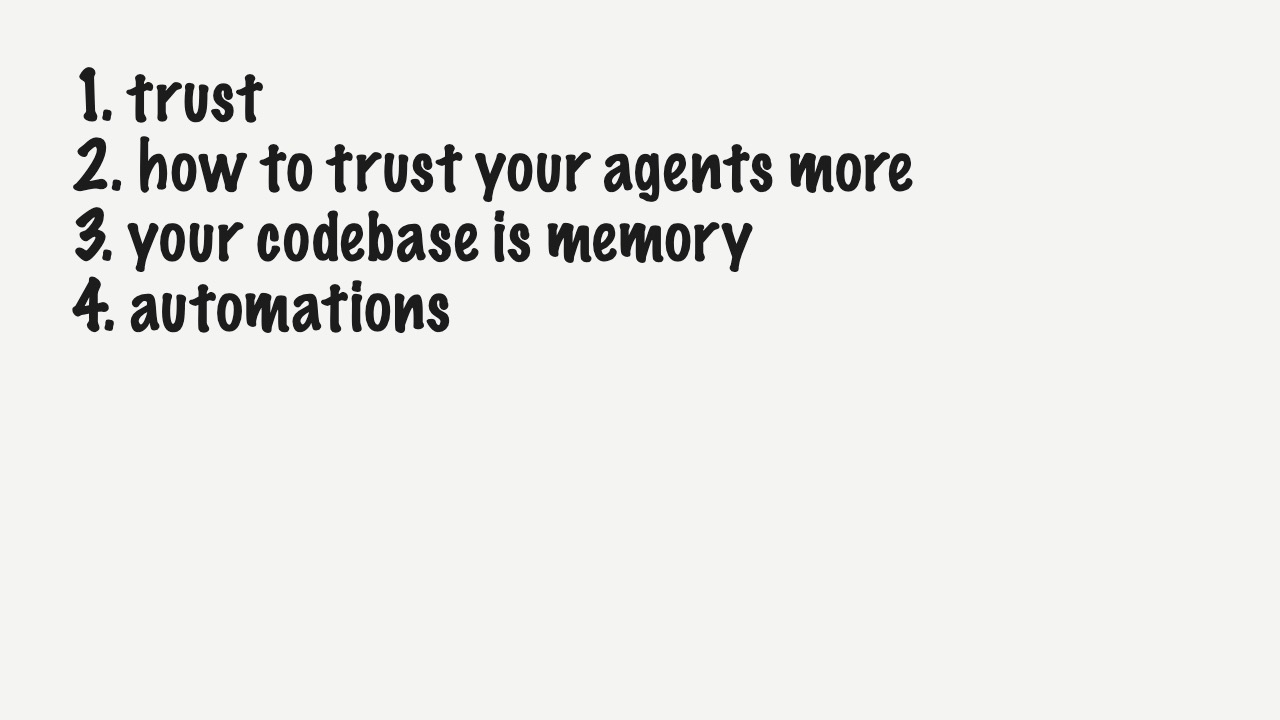
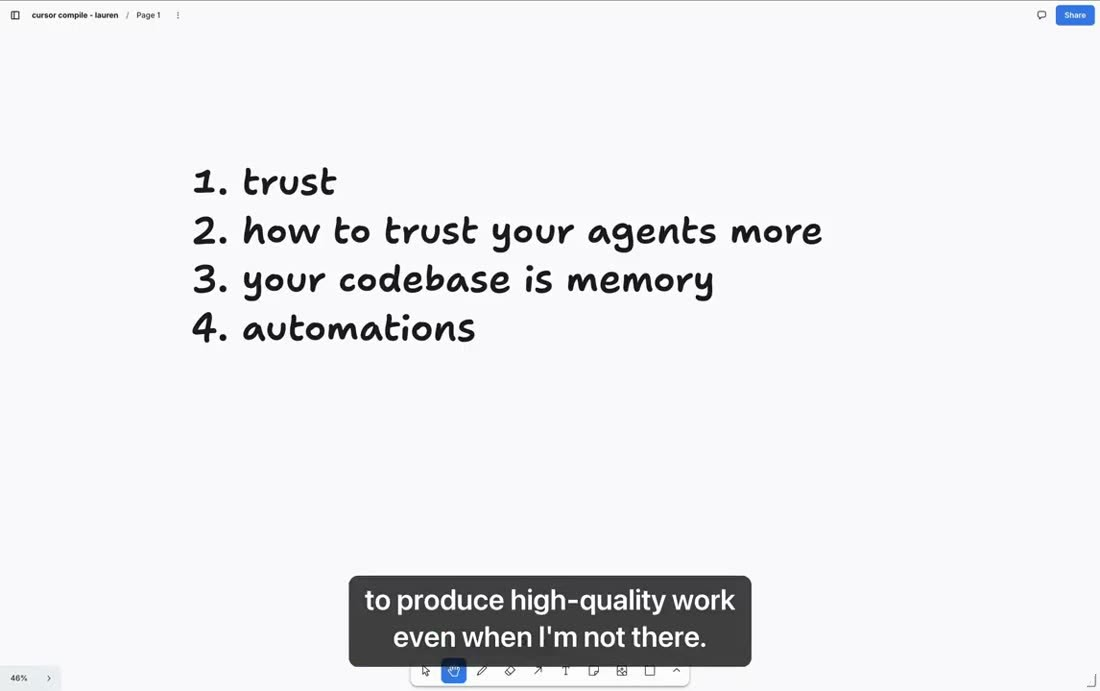
Poteto Paved Path: a short explainer and how-to, with the original slides and the webcam cropped out.

diff --git a/wiki/Systems/Agentic Workflows/Poteto Paved Path.md b/wiki/Systems/Agentic Workflows/Poteto Paved Path.md
@@ -4,7 +4,7 @@ type: concept
 status: developing
 created: 2026-09-22
 updated: 2026-09-22
-description: "Trust is how many agents you can leave alone. A harder prompt does not raise it. The codebase is the memory the next agent copies."
+description: "Trust is how many agents you can leave alone. The codebase is the memory, and a longer prompt does not raise that trust."
 method: plain-rewrite-2026-09-22
 prose-model: grok
 written-by: grok
@@ -17,53 +17,29 @@ tags:
 
 # Poteto Paved Path
 
-Trust is how many agents you can leave alone. A harder prompt does not raise it, because the next agent opens the files and extends the pattern already there. The codebase is the memory.
+Trust is how many agents you can leave alone. The next agent copies the pattern already in the files, so the codebase is the memory, and a longer prompt does not raise that trust.
 
-## How do you trust an agent more?
+You build the trust in three steps. Verification comes first: a feature map of what the app can do and how a person reaches it, plus a command that runs the app and saves proof. Until that exists, you are the check. A skill such as pstack comes next. It lives in the repo, and the agent can still skip it. Architecture is the step that lasts. Agents take the shortcut, so the shortcut has to be the right edit.
 
-Verification for correctness comes first. A feature map says what the app can do and how a person reaches it. A command runs the real app and saves the proof. Until those two exist, you are still the check.
+A new program has no walls yet. That is the greenfield case, and the short edit becomes the structure. Grok Bot started there. Dune is what it runs on now: one folder and one job for each kind of code, and a bad comment or a bad import fails the build. An older program is brownfield. The walls are already there, the way a check stops someone from deleting the live database, and you add a wall where agents still fall through.
 
-High quality skills come next, and pstack is the example. The procedure lives in the repo, so the next session can load it. The agent can still skip it. You do not install pstack in order to copy someone else's pull-request count.
+Mold is what you call the spread. A gardener deletes the debt, keeps one paved path, and lints the anti-pattern before the copies take over.
 
-Then you refactor the architecture so it is agent friendly. Agents like the shortcut, so the shortcut has to be the correct edit.
+Once the files can hold an agent, the outer loop is a Michelin kitchen rather than a factory. You still answer for what ships. Grok Bot is the line cook and starts work from Slack, Sentry, Datadog, and PlanetScale. Cloud agents do the edit on another computer. Automations and the Agent SDK are the team. A helper does not merge.
 
-A greenfield program has no walls yet. The short edit becomes the structure, and the next agent copies it. Grok Bot started as that kind of prototype. Dune is what the app runs on now. Each kind of code has one folder and one job. A bad comment fails the build, because agents were treating the comment as permission to patch over the bug. A bad import fails the build.
+## How to use this
 
-A brownfield program already has walls. A new person cannot delete the live database, and an agent that copies the files stays inside those walls. You add a wall where agents still fall through.
-
-A gardener stops the spread. It grows like weeds. You call it mold. The three moves are delete tech debt, keep one paved path, and lint against anti-patterns. Catch the mold while it is still one patch.
-
-## Whenever you correct your agent
-
-Put the correction as high on this list as it can go.
-
-1. Codebase. Change the files so the mistake cannot be written.
-2. Static analysis (lint/compiler/ci). Make the build fail.
-3. Rules/bugbot. A written rule can be skipped.
-4. Skills. A procedure in the repo can also be skipped.
-5. "Style guide." Only a person reading the change can apply it. A harder prompt lives here.
-
-## Your code, and this wiki
-
-The files you accept are the memory. A shortcut you leave is the pattern the next edit copies.
-
-On this wiki, the pages you have already accepted are the brownfield, along with two checks. `scripts/holdings.py` rejects a sentence that points at something the page never named. `scripts/source-words-check.py` rejects a sentence that points at where the words came from. A page you have not named is the greenfield. You name it, you open it, and you read it. A bad sentence left in place is mold.
-
-## Building a Michelin kitchen
-
-The picture for the outer loop is a Michelin kitchen, not a software factory. You still answer for the plate. You are no longer cooking each part yourself.
-
-Grok Bot is the line cook. It watches Slack, Sentry, Datadog, and PlanetScale, and starts the next station.
-
-Cloud agents are a separate computer. They keep working after the laptop is closed and open a pull request.
-
-Automations and the Agent SDK are the team. They start agents from events, on the same skills.
-
-You are not in that kitchen on this wiki yet, because you still open the page. A helper does not merge. You merge.
+1. When you correct an agent, change the files so that mistake cannot be written.
+2. If you cannot change the files yet, add a lint, a compiler check, or a CI check that fails the build.
+3. A rule, Bugbot, or a skill can help, and each one can be skipped. Do not stop there.
+4. Do not rely on a style guide or a longer prompt. The next session will not have it.
+5. On a new codebase, choose the one allowed way before agents write it. On an old codebase, add a wall where they keep taking the wrong shortcut.
+6. When you see mold, delete what is already there, keep one paved path, and add the lint while the cleanup is still going.
+7. On this wiki, name the page before a draft starts, then open it and read it. `scripts/holdings.py` and `scripts/source-words-check.py` are the checks you already have. You are not running the kitchen here yet.
 
 ## The slides
 
-Redrawn from the deck, in order. The words on each slide are the words from the original.
+The original slides, in order, with the webcam cropped out.
 
 ### Agenda
 
